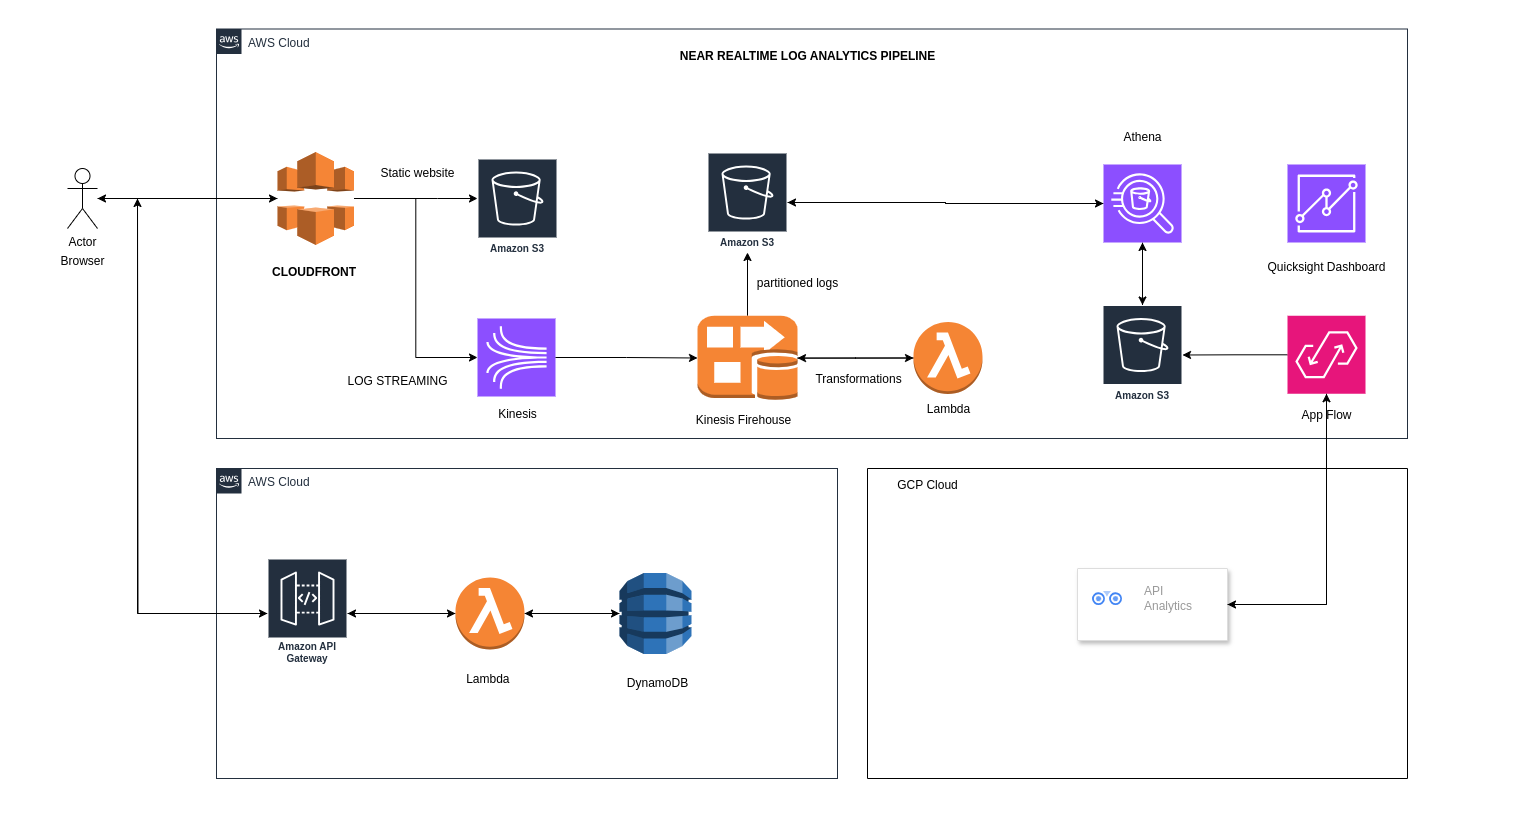
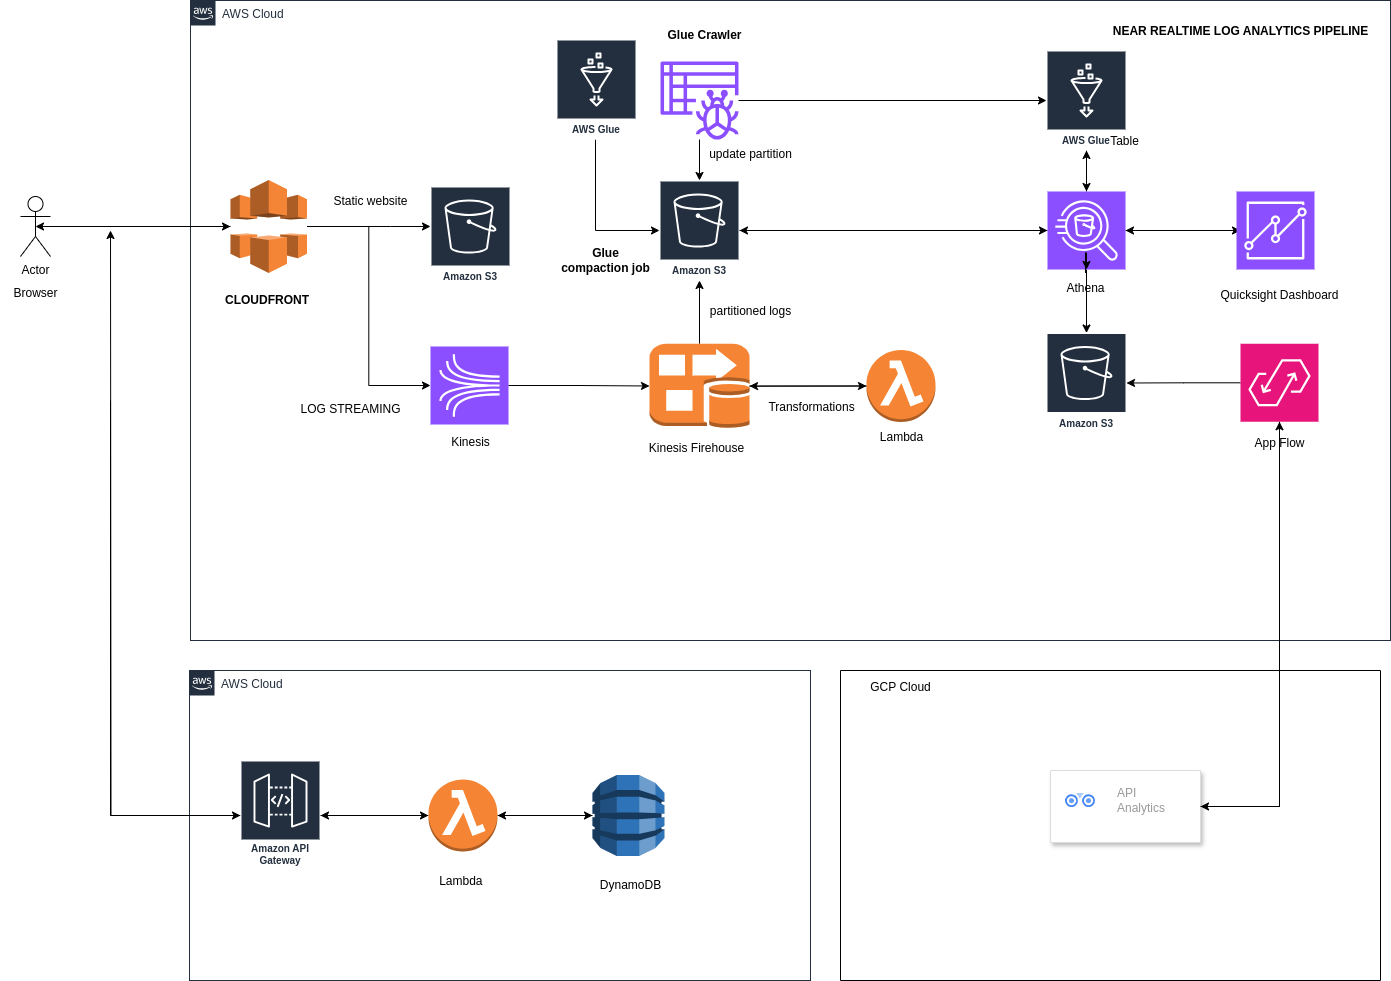
updated readme

diff --git a/README.md b/README.md
@@ -4,8 +4,11 @@
     <p align="center"><a href="https://www.linkedin.com/in/isahillohiya/" target="_blank"><img src="https://img.shields.io/badge/LinkedIn-0077B5?style=for-the-badge&logo=linkedin&logoColor=white" alt="Linkedin"></a>
 
 ## Architecture Overview
+This project implements a real-time log analytics pipeline using AWS services to monitor and analyze user interactions on a static website hosted on S3 via CloudFront. The pipeline includes near real-time analytics using QuickSight, product page usage stats using API Gateway, Lambda, and DynamoDB, as well as integration with Google Analytics using AWS AppFlow.
 
  <img src="resources/images/architecture.png" width="600" alt="Architacture Diagram">
+
+### Components:
 
 ### Components:
 
@@ -24,27 +27,24 @@
    - Stores transformed logs in partitioned folders for efficient querying.
    - Stores data extracted from Google Analytics via AWS AppFlow.
 
-5. **AWS Glue**:
-   - Runs daily jobs to optimize small files for Athena queries.
+5. **AWS Glue Crawler**:
+   - Scans the S3 bucket to detect and update partitions for the Athena tables.
+   - Scheduled to run every 24 hours to keep partition information up-to-date.
 
-6. **Athena & QuickSight**:
+6. **AWS Glue Jobs**:
+   - Runs daily jobs to optimize small files and compact them into larger ones for efficient querying.
+
+7. **Athena & QuickSight**:
    - Athena queries partitioned data in S3, including logs and data from Google Analytics.
    - QuickSight visualizes near real-time analytics.
 
-7. **API Gateway, Lambda, DynamoDB**:
+8. **API Gateway, Lambda, DynamoDB**:
    - Processes and stores immediate usage stats for the product page.
 
-8. **AWS AppFlow**:
+9. **AWS AppFlow**:
    - Integrates with Google Analytics to extract data and store it in S3.
    - Enables analysis of Google Analytics data alongside other website interaction logs.
-
-### Why Glue Crawler Was Not Used:
-
-AWS Glue Crawler was not used in this project for the following reasons:
-- **Custom Data Transformation**: Data transformation for both CloudFront logs is managed within Kinesis Data Firehose This approach provided more control over the transformation process.
-- **Parquet Format**:  data is transformed into Parquet format by Kinesis Data Firehose optimizing storage and query performance in Athena without the need for Glue Crawler.
-- **Partitioning Strategy**: The partitioning strategy (`event_type/year/month/date`) was predefined and managed directly in the data processing pipeline, making Glue Crawler's dynamic schema inference less necessary.
-
+   
 ### Dashboard Demo:
 <hr>
 
